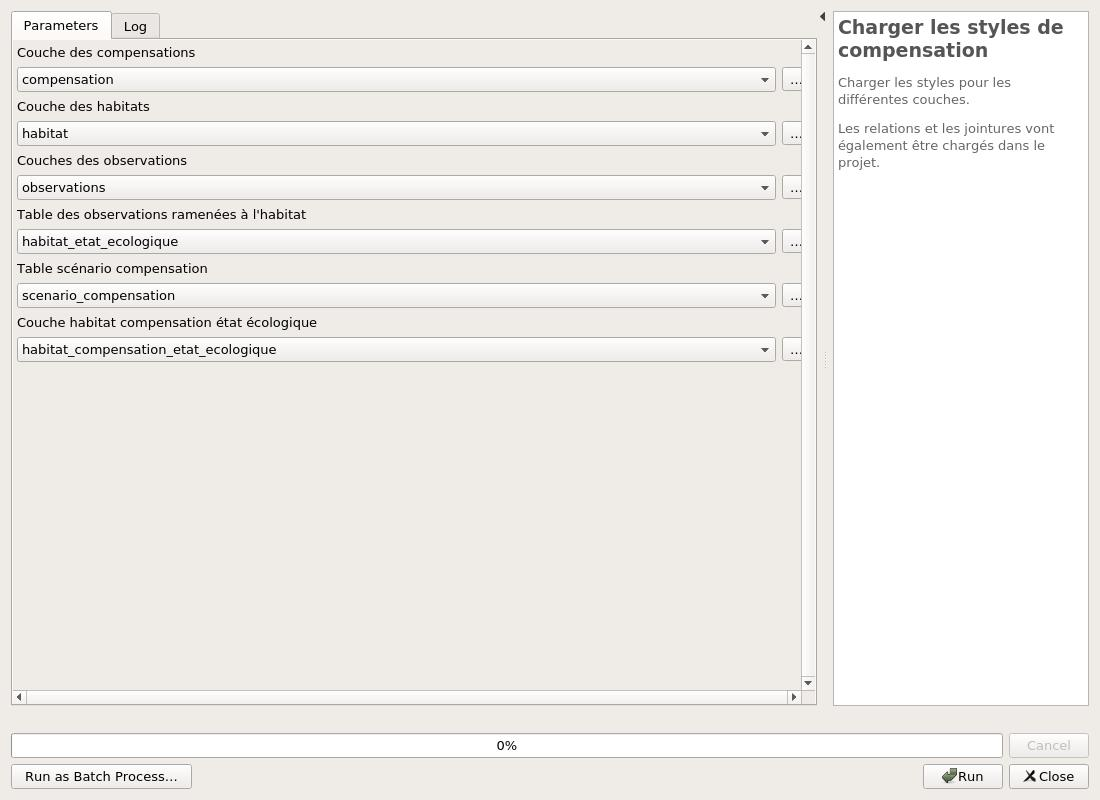
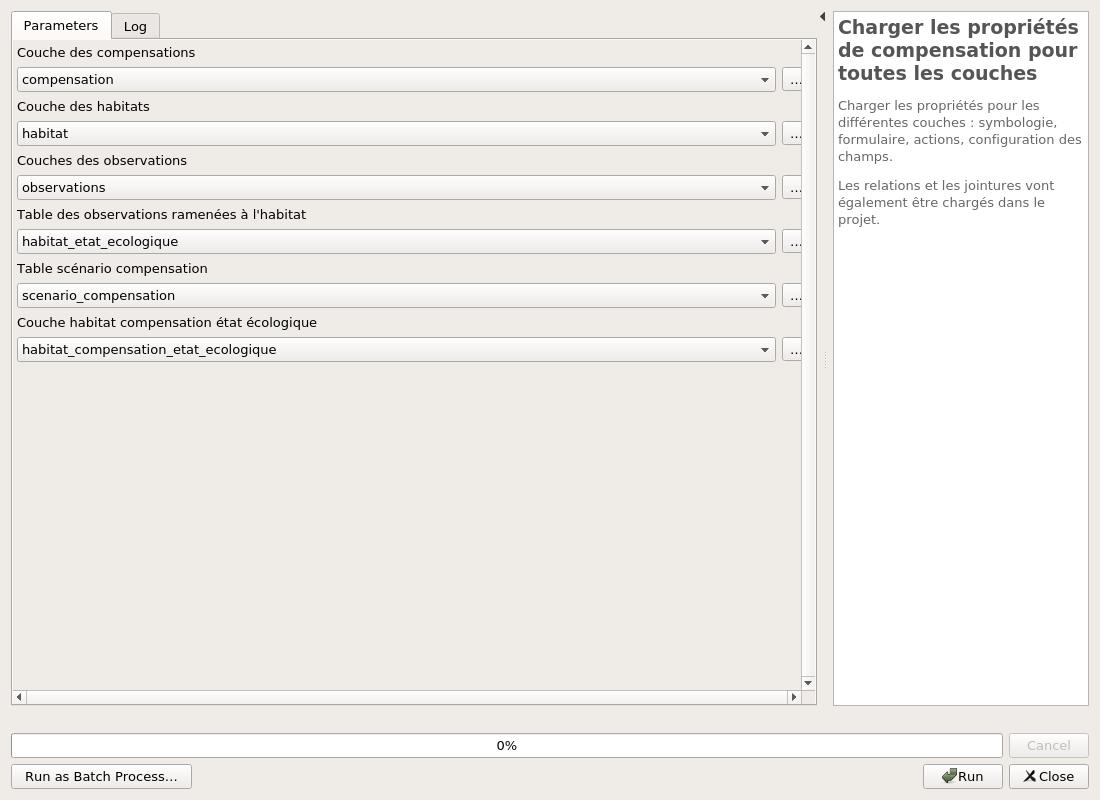
Rename "Load styles" with "Load layer configuration" fix #64

Changed region(s): [[0.7418, 0.0312, 0.9891, 0.2812]]

diff --git a/mercicor/processing/project/load_layer_config_and_relations.py b/mercicor/processing/project/load_layer_config_and_relations.py
@@ -32,7 +32,7 @@ from mercicor.processing.project.base import BaseProjectAlgorithm
 from mercicor.qgis_plugin_tools import load_csv, resources_path
 
 
-class BaseLoadStylesAndRelations(BaseProjectAlgorithm):
+class BaseLoadLayerConfigAndRelations(BaseProjectAlgorithm):
 
     HABITAT_LAYER = 'HABITAT_LAYER'
     HABITAT_ETAT_ECOLOGIQUE_LAYER = 'HABITAT_ETAT_ECOLOGIQUE_LAYER'
@@ -75,11 +75,12 @@ class BaseLoadStylesAndRelations(BaseProjectAlgorithm):
         return "load_qml_and_relations_{}".format(self.project_type.label)
 
     def displayName(self):
-        return "Charger les styles de {}".format(self.project_type.label)
+        return "Charger les propriétés de {} pour toutes les couches".format(self.project_type.label)
 
     def shortHelpString(self):
         return (
-            "Charger les styles pour les différentes couches.\n\n"
+            "Charger les propriétés pour les différentes couches : symbologie, formulaire, actions, "
+            "configuration des champs.\n\n"
             "Les relations et les jointures vont également être chargés dans le projet."
         )
 
@@ -365,7 +366,7 @@ class BaseLoadStylesAndRelations(BaseProjectAlgorithm):
         }
 
 
-class LoadStylesAndRelationsPression(BaseLoadStylesAndRelations):
+class LoadLayerConfigAndRelationsPression(BaseLoadLayerConfigAndRelations):
 
     IMPACT_LAYER = 'PRESSION_LAYER'
     SCENARIO_IMPACT = 'SCENARIO_PRESSION'
@@ -411,7 +412,7 @@ class LoadStylesAndRelationsPression(BaseLoadStylesAndRelations):
         return actions_list_pression
 
 
-class LoadStylesAndRelationsCompensation(BaseLoadStylesAndRelations):
+class LoadLayerConfigAndRelationsCompensation(BaseLoadLayerConfigAndRelations):
 
     IMPACT_LAYER = 'COMPENSATION_LAYER'
     SCENARIO_IMPACT = 'SCENARIO_COMPENSATION'

diff --git a/mercicor/tests/test_algorithms_project.py b/mercicor/tests/test_algorithms_project.py
@@ -7,8 +7,8 @@ from qgis.core import QgsVectorLayer
 from qgis.processing import run
 
 from mercicor.definitions.project_type import ProjectType
-from mercicor.processing.project.load_qml_and_relations import (
-    LoadStylesAndRelationsPression,
+from mercicor.processing.project.load_layer_config_and_relations import (
+    LoadLayerConfigAndRelationsPression,
 )
 from mercicor.qgis_plugin_tools import (
     load_csv,
@@ -92,11 +92,11 @@ class TestProjectAlgorithms(BaseTestProcessing):
         style = resources_path('qml', 'style', 'observations.qml')
 
         qml = [labels, style]
-        path = LoadStylesAndRelationsPression.combine_qml('foo', qml, False)
+        path = LoadLayerConfigAndRelationsPression.combine_qml('foo', qml, False)
         with open(path, 'r', encoding='utf-8') as f:
             self.assertIn('labelsEnabled="0"', f.read())
 
-        path = LoadStylesAndRelationsPression.combine_qml('foo', qml, True)
+        path = LoadLayerConfigAndRelationsPression.combine_qml('foo', qml, True)
         with open(path, 'r', encoding='utf-8') as f:
             self.assertIn('labelsEnabled="1"', f.read())
 

diff --git a/mercicor/processing/provider.py b/mercicor/processing/provider.py
@@ -35,9 +35,9 @@ from mercicor.processing.project.create_geopackage import (
     CreateGeopackageProjectCompensation,
     CreateGeopackageProjectPression,
 )
-from mercicor.processing.project.load_qml_and_relations import (
-    LoadStylesAndRelationsCompensation,
-    LoadStylesAndRelationsPression,
+from mercicor.processing.project.load_layer_config_and_relations import (
+    LoadLayerConfigAndRelationsCompensation,
+    LoadLayerConfigAndRelationsPression,
 )
 from mercicor.qgis_plugin_tools import resources_path
 
@@ -59,8 +59,8 @@ class MercicorProvider(QgsProcessingProvider):
         self.addAlgorithm(ImportObservationData())
         self.addAlgorithm(ImportDataCompensation())
         self.addAlgorithm(ImportDataPression())
-        self.addAlgorithm(LoadStylesAndRelationsCompensation())
-        self.addAlgorithm(LoadStylesAndRelationsPression())
+        self.addAlgorithm(LoadLayerConfigAndRelationsCompensation())
+        self.addAlgorithm(LoadLayerConfigAndRelationsPression())
 
     def id(self):  # NOQA
         return "mercicor"

diff --git a/docs/processing/README.md b/docs/processing/README.md
@@ -292,9 +292,9 @@ OUTPUT_LAYERS|Couches de sorties|MultipleLayers||
 ***
 
 
-### Charger les styles de compensation
+### Charger les propriétés de compensation pour toutes les couches
 
-Charger les styles pour les différentes couches.
+Charger les propriétés pour les différentes couches : symbologie, formulaire, actions, configuration des champs.
 
 Les relations et les jointures vont également être chargés dans le projet.
 
@@ -325,9 +325,9 @@ QML_LOADED|Nombre de QML chargés|Number||
 ***
 
 
-### Charger les styles de pression
+### Charger les propriétés de pression pour toutes les couches
 
-Charger les styles pour les différentes couches.
+Charger les propriétés pour les différentes couches : symbologie, formulaire, actions, configuration des champs.
 
 Les relations et les jointures vont également être chargés dans le projet.
 
